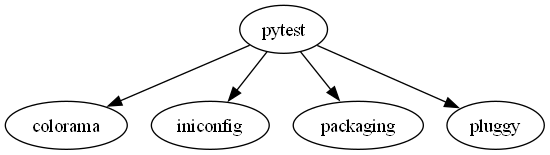
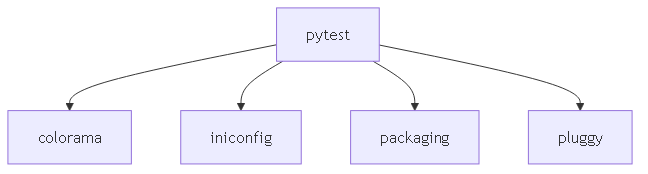
Updated README.md and switched to Mermaid CLI

diff --git a/dependency_visualizer/main.py b/dependency_visualizer/main.py
@@ -21,50 +21,49 @@ def get_dependencies(package_name):
             break
     return dependencies if dependencies[0] else []
 
-def build_graph(package_name, output_path):
+def build_mermaid_graph(package_name, output_path):
     """
-    Создаёт граф зависимостей в формате .dot и преобразует его в .png.
+    Создаёт граф зависимостей в формате Mermaid и сохраняет его как PNG.
     """
     dependencies = get_dependencies(package_name)
 
-    # Создаём граф в формате .dot
-    graph_lines = ["digraph G {"]
+    # Создаём граф в формате Mermaid
+    graph_lines = ["graph TD"]
     for dep in dependencies:
-        graph_lines.append(f'    "{package_name}" -> "{dep}";')
-    graph_lines.append("}")
+        graph_lines.append(f'    {package_name} --> {dep}')
 
-    # Сохраняем граф
-    dot_file = output_path.replace(".png", ".dot")
-    print(f"Путь для сохранения .dot файла: {dot_file}")
+    # Сохраняем Mermaid диаграмму
+    mmd_file = output_path.replace(".png", ".mmd")
+    print(f"Путь для сохранения .mmd файла: {mmd_file}")
     print(f"Путь для сохранения .png файла: {output_path}")
-    print("Содержимое .dot файла:")
+    print("Содержимое .mmd файла:")
     print("\n".join(graph_lines))
 
     try:
-        with open(dot_file, "w") as f:
+        with open(mmd_file, "w") as f:
             f.write("\n".join(graph_lines))
-        print(f".dot файл успешно создан: {dot_file}")
+        print(f".mmd файл успешно создан: {mmd_file}")
     except Exception as e:
-        print(f"Ошибка при создании .dot файла: {e}")
+        print(f"Ошибка при создании .mmd файла: {e}")
         return
 
-    # Конвертируем .dot в .png с помощью Graphviz
-    command = f"dot -Tpng {dot_file} -o {output_path}"
-    print(f"Выполнение команды Graphviz: {command}")
+    # Конвертируем .mmd в .png с помощью Mermaid CLI
+    command = f"mmdc -i {mmd_file} -o {output_path}"
+    print(f"Выполнение команды Mermaid CLI: {command}")
     result = os.system(command)
     if result != 0:
-        print("Ошибка при выполнении команды Graphviz.")
+        print("Ошибка при выполнении команды Mermaid CLI.")
     else:
         print(f"Граф зависимостей сохранён в {output_path}")
 
 def main():
-    parser = argparse.ArgumentParser(description="Визуализация графа зависимостей.")
+    parser = argparse.ArgumentParser(description="Визуализация графа зависимостей с помощью Mermaid.")
     parser.add_argument("--package", required=True, help="Имя Python-пакета.")
     parser.add_argument("--output", required=True, help="Путь к выходному .png файлу.")
     args = parser.parse_args()
 
     try:
-        build_graph(args.package, args.output)
+        build_mermaid_graph(args.package, args.output)
     except ValueError as e:
         print(e)
 
